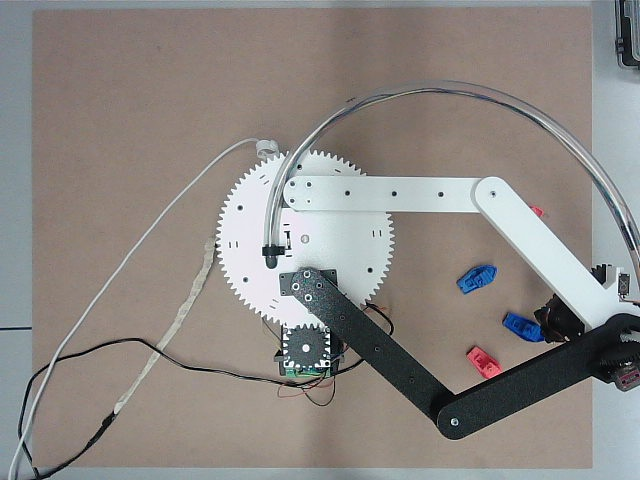
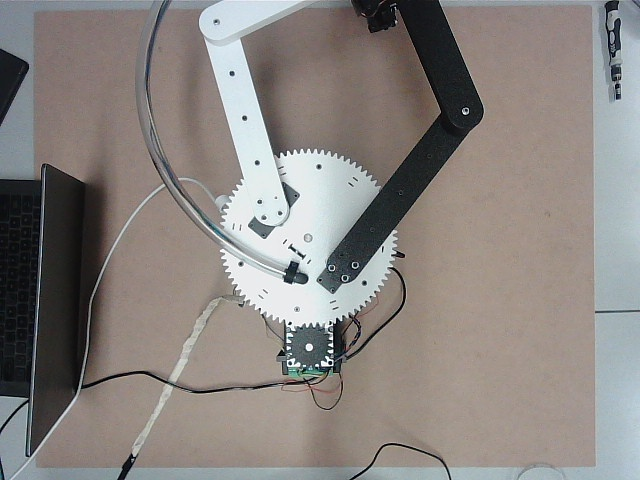
firt implementation off arms in

diff --git a/scripts/pick.py b/scripts/pick.py
@@ -65,6 +65,15 @@ CONFIG = {
     "move_drain_timeout": 15.0,  # how long to wait for ESP32 DONE after each move
     "rotate_timeout":     30.0,  # how long to wait for ESP32 DONE after ROTATE
     "rotate_settle":       3.0,  # settle countdown after stepper returns
+    "arms_in_timeout":    10.0,  # how long to wait for ESP32 DONE after arms-in move
+
+    # ── Arms-in (tuck) angles ──────────────────────────────────────────────────
+    # IK angles (degrees from +x axis) the arms move to before the stepper rotates.
+    # Adjust these until the tuck position clears any obstacles.
+    # HOME_ANGLE is 90° (straight up); values below 90° pull left arm inward,
+    # values above 90° pull right arm inward.
+    "arms_in_theta1_deg": 60.0,   # left arm tuck angle
+    "arms_in_theta2_deg": 120.0,  # right arm tuck angle
 
     # ── Pick ordering strategy ────────────────────────────────────────────────
     # "nearest"   — nearest to robot origin first (default from get_detections)
@@ -95,6 +104,7 @@ log = logging.getLogger("pick")
 class State(Enum):
     STARTUP     = auto()
     SCAN        = auto()
+    ARMS_IN     = auto()   # tuck arms before stepper rotates
     ROTATE_BACK = auto()
     MOVE_TO_OBJ = auto()
     DWELL       = auto()
@@ -313,7 +323,25 @@ def run(cfg: dict, comms: SerialComms | None):
                     cv2.waitKey(1)
 
                 current = visit_list.pop(0)
-                state   = State.ROTATE_BACK
+                state   = State.ARMS_IN
+
+            # ── ARMS IN ───────────────────────────────────────────────────────
+            elif state == State.ARMS_IN:
+                log.info("Bringing arms to tucked position …")
+                cmd1, cmd2 = angles_to_commands(
+                    cfg["arms_in_theta1_deg"], cfg["arms_in_theta2_deg"]
+                )
+                log.info("  arms-in: θ1=%.1f°  θ2=%.1f°  cmd=(%.2f, %.2f)",
+                         cfg["arms_in_theta1_deg"], cfg["arms_in_theta2_deg"], cmd1, cmd2)
+                if comms is not None:
+                    ok = comms.send_command(cmd1, cmd2, 0)
+                    if not ok:
+                        log.error("  Arms-in command failed — continuing to rotate.")
+                    elif not comms.wait_for_done("DONE", timeout=cfg["arms_in_timeout"]):
+                        log.warning("  Arms-in timed out (%.1fs).", cfg["arms_in_timeout"])
+                else:
+                    log.info("  [SIM] Arms-in command not sent.")
+                state = State.ROTATE_BACK
 
             # ── ROTATE BACK ───────────────────────────────────────────────────
             elif state == State.ROTATE_BACK:
